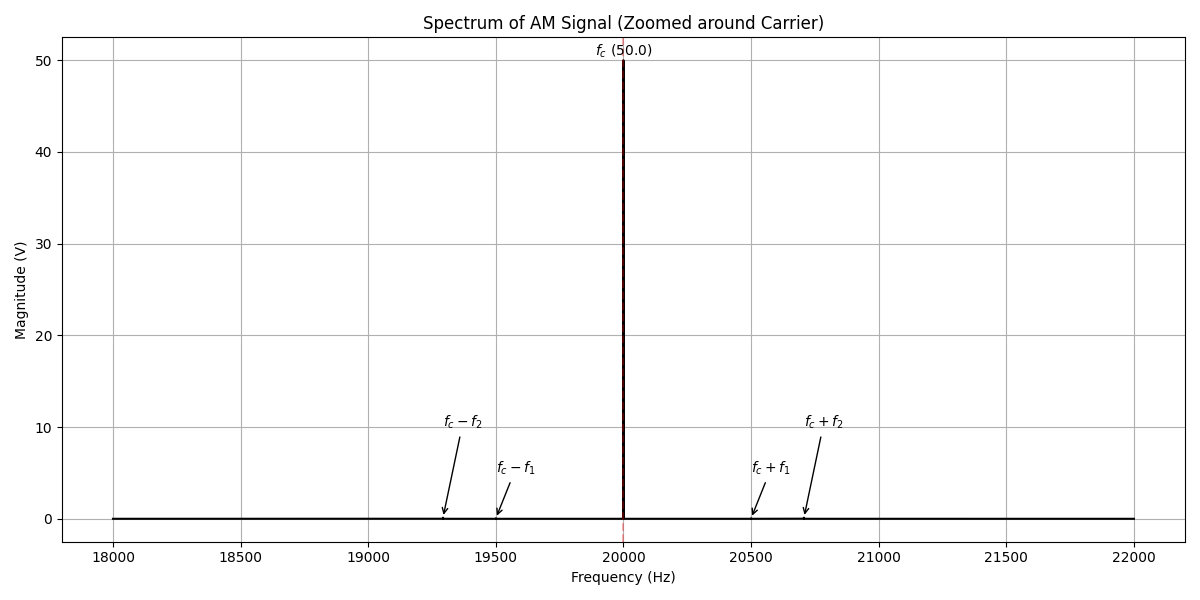
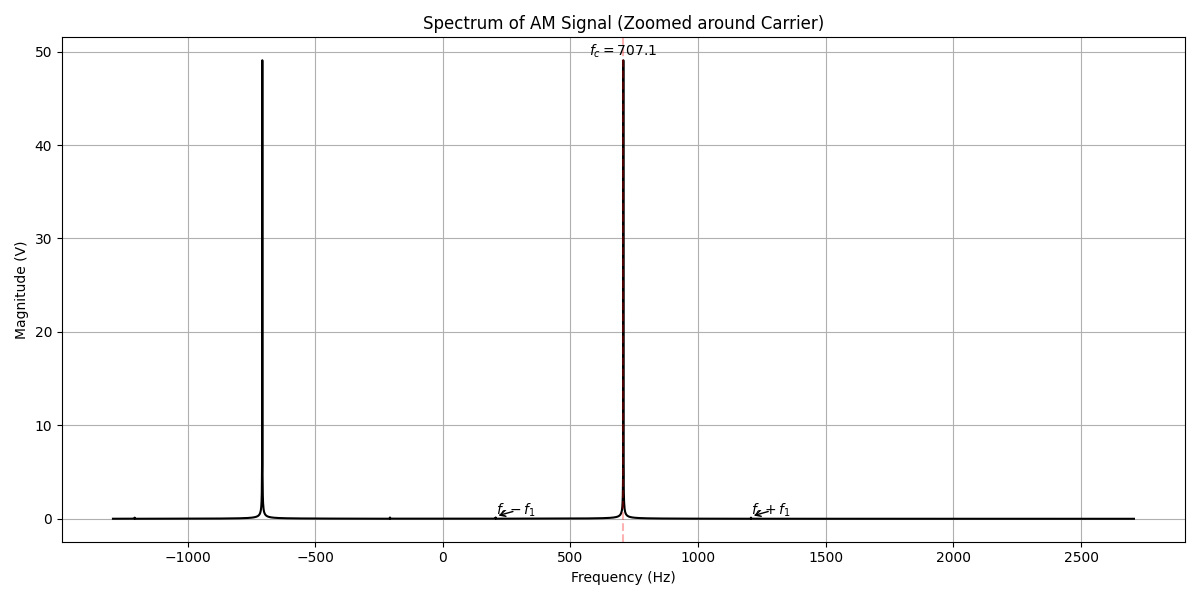
correctedQ3

diff --git a/AM_Problem_Solver/solve_am.py b/AM_Problem_Solver/solve_am.py
@@ -4,11 +4,11 @@ import matplotlib.pyplot as plt
 # Parameters
 f1 = 500.0
 f2 = 500.0 * np.sqrt(2)
-fc = 20000.0  # Carrier frequency (chosen for visualization, not given)
+fc = f2       # Carrier frequency is f2
 Ac = 100.0    # Carrier Amplitude
 
-fs = 200000.0 # Sampling rate (high enough for carrier)
-duration = 0.0002 # Short duration to see waveform details (20ms = 10 cycles of f1)
+fs = 200000.0 # Sampling rate
+duration = 0.01 # 10ms
 t = np.arange(0, duration, 1/fs)
 
 # Frequencies in rad/s
@@ -17,17 +17,18 @@ w2 = 2 * np.pi * f2
 wc = 2 * np.pi * fc
 
 # Message Signal
-# Note: Assuming second term is w2 based on provided f2
-m_t = 0.2 * np.sin(w1 * t) + 0.5 * np.cos(w2 * t)
+# User specified: omega in message signal is equal for cos and sine terms (w1)
+m_t = 0.2 * np.sin(w1 * t) + 0.5 * np.cos(w1 * t)
 
 # AM Signal
 # s(t) = (Ac + m(t)) cos(wc t)
 s_t = (Ac + m_t) * np.cos(wc * t)
 
 # Modulation Percentage
-# mu = (max(|m(t)|) / Ac) * 100
-# The theoretical max of m(t) is sum of amplitudes since frequencies are irrational
-max_m = 0.2 + 0.5
+# m(t) = 0.2 sin(w1 t) + 0.5 cos(w1 t)
+# This is a single sinusoid of form R cos(w1 t - phi)
+# R = sqrt(0.2^2 + 0.5^2)
+max_m = np.sqrt(0.2**2 + 0.5**2)
 mu = (max_m / Ac) * 100
 
 print(f"Modulation Percentage: {mu:.2f}%")
@@ -52,7 +53,7 @@ plt.savefig('AM_Waveform.png')
 # Need longer duration for better frequency resolution
 T_spec = 1.0 
 t_spec = np.arange(0, T_spec, 1/fs)
-m_t_spec = 0.2 * np.sin(w1 * t_spec) + 0.5 * np.cos(w2 * t_spec)
+m_t_spec = 0.2 * np.sin(w1 * t_spec) + 0.5 * np.cos(w1 * t_spec)
 s_t_spec = (Ac + m_t_spec) * np.cos(wc * t_spec)
 
 N = len(s_t_spec)
@@ -63,10 +64,6 @@ xf = np.fft.fftfreq(N, 1/fs)
 yf_shifted = np.fft.fftshift(yf)
 xf_shifted = np.fft.fftshift(xf)
 magnitude = np.abs(yf_shifted) / N
-
-# Theory says sidebands magnitude is related to m(t) coeffs / 2
-# Ac term -> Ac/2 at +/- fc (since we look at one side or normalized)
-# Actually FFT outputs A/2 for sinusoids A cos(wt) in two-sided spectrum
 
 plt.figure(figsize=(12, 6))
 # Only plot positive frequencies around carrier
@@ -79,16 +76,13 @@ plt.grid(True)
 
 # Annotations
 plt.axvline(x=fc, color='r', linestyle='--', alpha=0.3)
-plt.text(fc, np.max(magnitude), f'$f_c$ ({Ac/2})', ha='center', va='bottom')
+plt.text(fc, np.max(magnitude), f'$f_c={fc:.1f}$', ha='center', va='bottom')
 
-# Sidebands
-# f1
-plt.annotate(f'$f_c+f_1$', xy=(fc+f1, 0.2/4), xytext=(fc+f1, 5), arrowprops=dict(arrowstyle='->'))
-plt.annotate(f'$f_c-f_1$', xy=(fc-f1, 0.2/4), xytext=(fc-f1, 5), arrowprops=dict(arrowstyle='->'))
-
-# f2
-plt.annotate(f'$f_c+f_2$', xy=(fc+f2, 0.5/4), xytext=(fc+f2, 10), arrowprops=dict(arrowstyle='->'))
-plt.annotate(f'$f_c-f_2$', xy=(fc-f2, 0.5/4), xytext=(fc-f2, 10), arrowprops=dict(arrowstyle='->'))
+# Sidebands (Only f1 exists now)
+# Combined amplitude of m(t) is R = sqrt(0.2^2 + 0.5^2) = 0.5385
+# Sideband amplitude = R/2 = 0.269
+plt.annotate(f'$f_c+f_1$', xy=(fc+f1, 0.269), xytext=(fc+f1, 0.4), arrowprops=dict(arrowstyle='->'))
+plt.annotate(f'$f_c-f_1$', xy=(fc-f1, 0.269), xytext=(fc-f1, 0.4), arrowprops=dict(arrowstyle='->'))
 
 plt.tight_layout()
 plt.savefig('AM_Spectrum.png')
